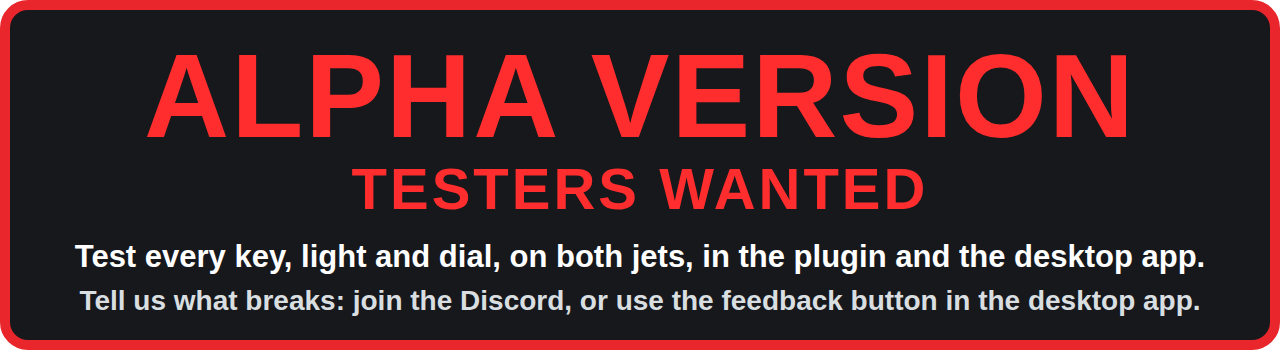
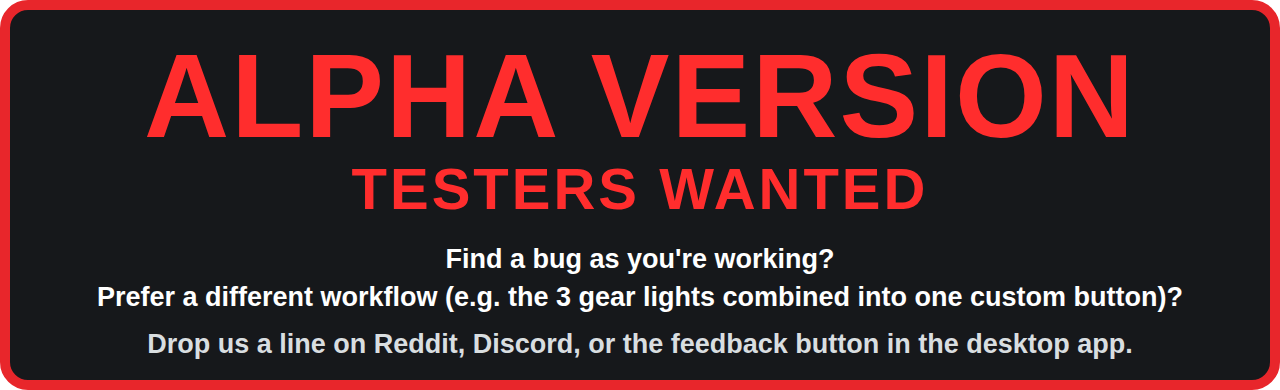
README: alpha notice asks for bugs and workflow ideas; add Reddit

diff --git a/README.md b/README.md
@@ -5,12 +5,12 @@
 # dcs2streamdeck
 
 <p align="center">
-  <a href="https://discord.gg/fs4WyaQPA"><img src="assets/alpha.png" alt="ALPHA VERSION, TESTERS WANTED. Test every key, light and dial, on both jets, in the plugin and the desktop app. Tell us what breaks: join the Discord, or use the feedback button in the desktop app." width="1280"></a>
+  <a href="https://discord.gg/fs4WyaQPA"><img src="assets/alpha.png" alt="ALPHA VERSION, TESTERS WANTED. Find a bug as you're working? Prefer a different workflow (e.g. the 3 gear lights combined into one custom button)? Drop us a line on Reddit, Discord, or the feedback button in the desktop app." width="1280"></a>
 </p>
 
 > [!CAUTION]
 > ## ALPHA VERSION: TESTERS WANTED
-> **Join the [Discord](https://discord.gg/fs4WyaQPA) to give feedback, or use the feedback button built into the desktop apps.**
+> **Find a bug as you're working? Prefer a different workflow (e.g. the 3 gear lights combined into one custom button)? Drop us a line on [Reddit](https://www.reddit.com/r/AdamChsLab/), [Discord](https://discord.gg/fs4WyaQPA), or the feedback button in the desktop app.**
 >
 > **Please test every function:** every key, light and dial, on both jets, in the Stream Deck plugin and in the desktop app. Tell us what works and what breaks.
 
@@ -67,4 +67,4 @@ I love making things. Anything I've ever built has been to have fun, share fun, 
 
 [GitHub Sponsors](https://github.com/sponsors/AdamChesters) | [Buy Me a Coffee](https://buymeacoffee.com/adamch) | [Donate with PayPal](https://www.paypal.com/donate/?business=KLHSZPXTSVSAU&no_recurring=0&item_name=I%27ve+donated+to+lots+of+small+creators+for+their+useful+little+tools%2C+now+I+create+them.+Dig+one?+I%27d+love+your+support.&currency_code=AUD)
 
-[Join the Discord](https://discord.gg/fs4WyaQPA)
+[Join the Discord](https://discord.gg/fs4WyaQPA) | [r/AdamChsLab on Reddit](https://www.reddit.com/r/AdamChsLab/)
